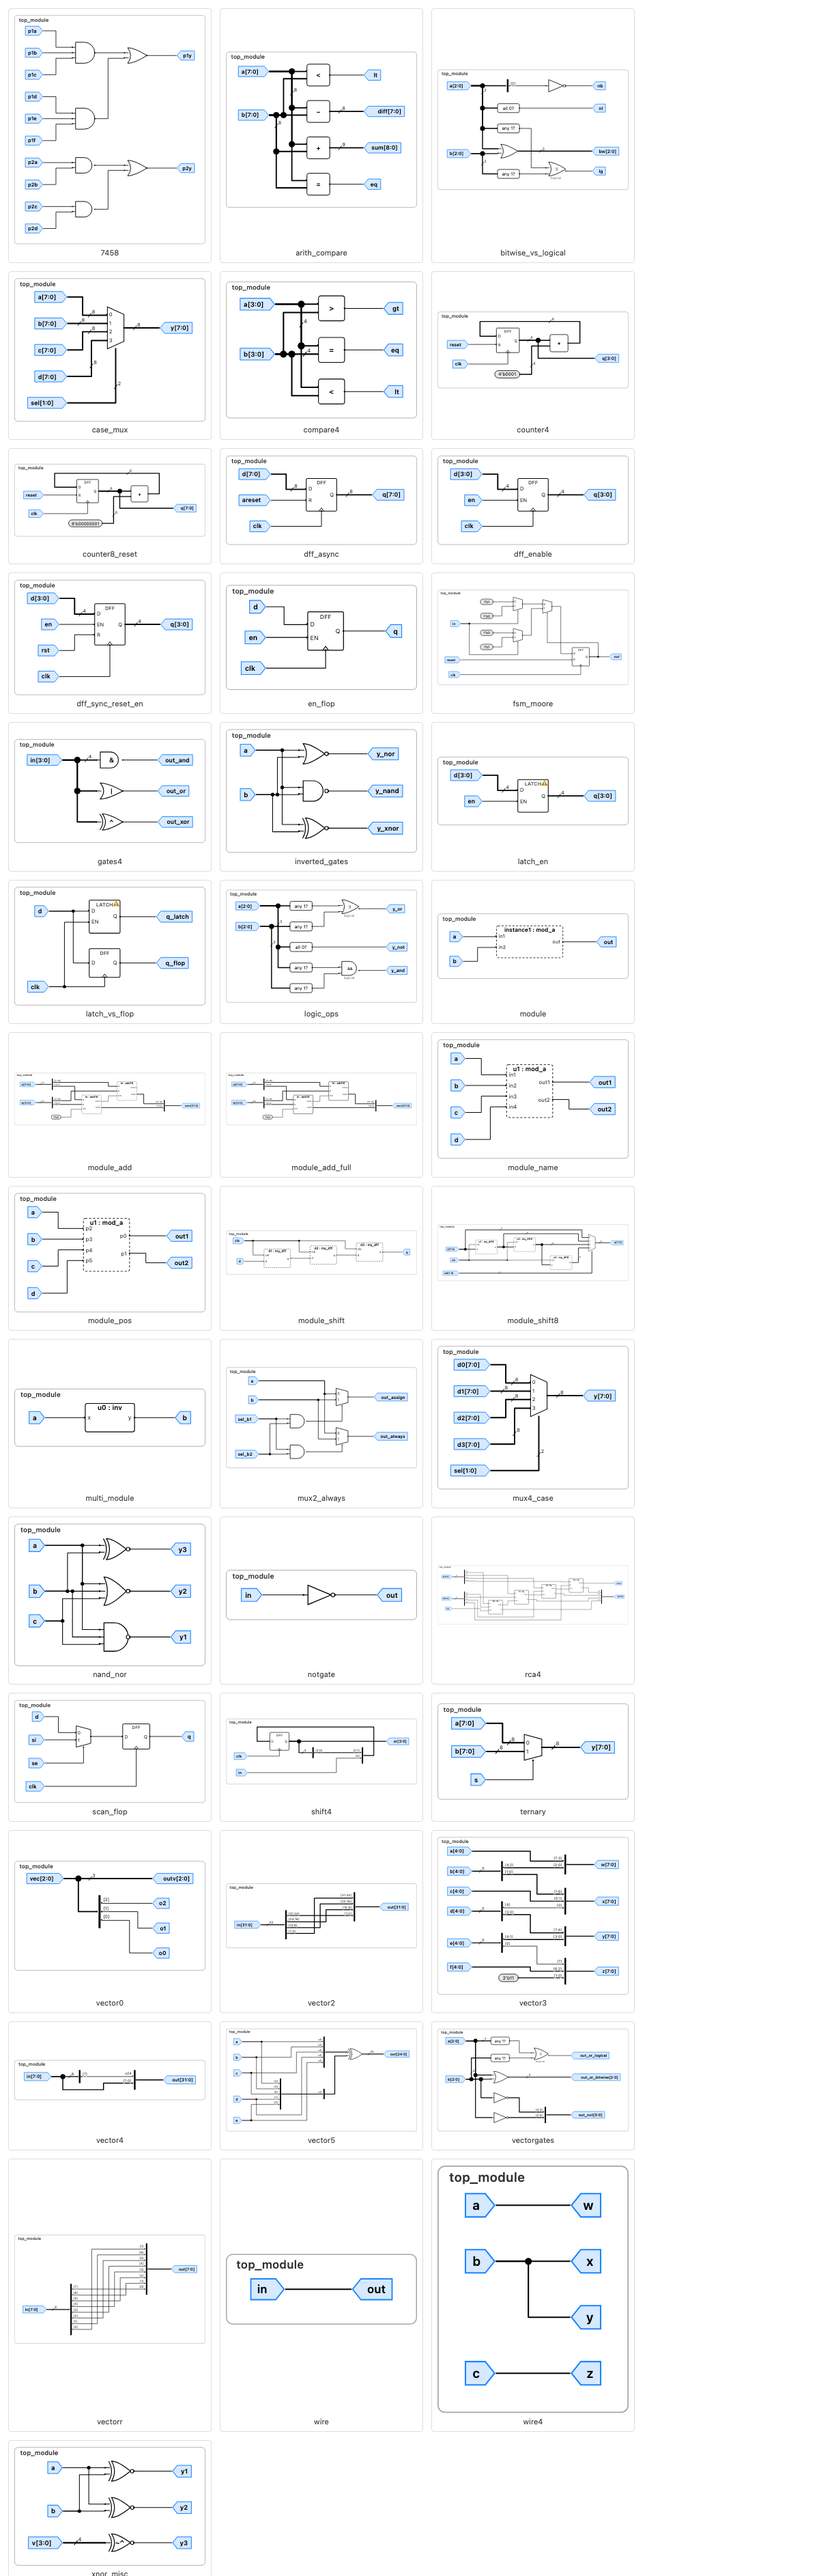
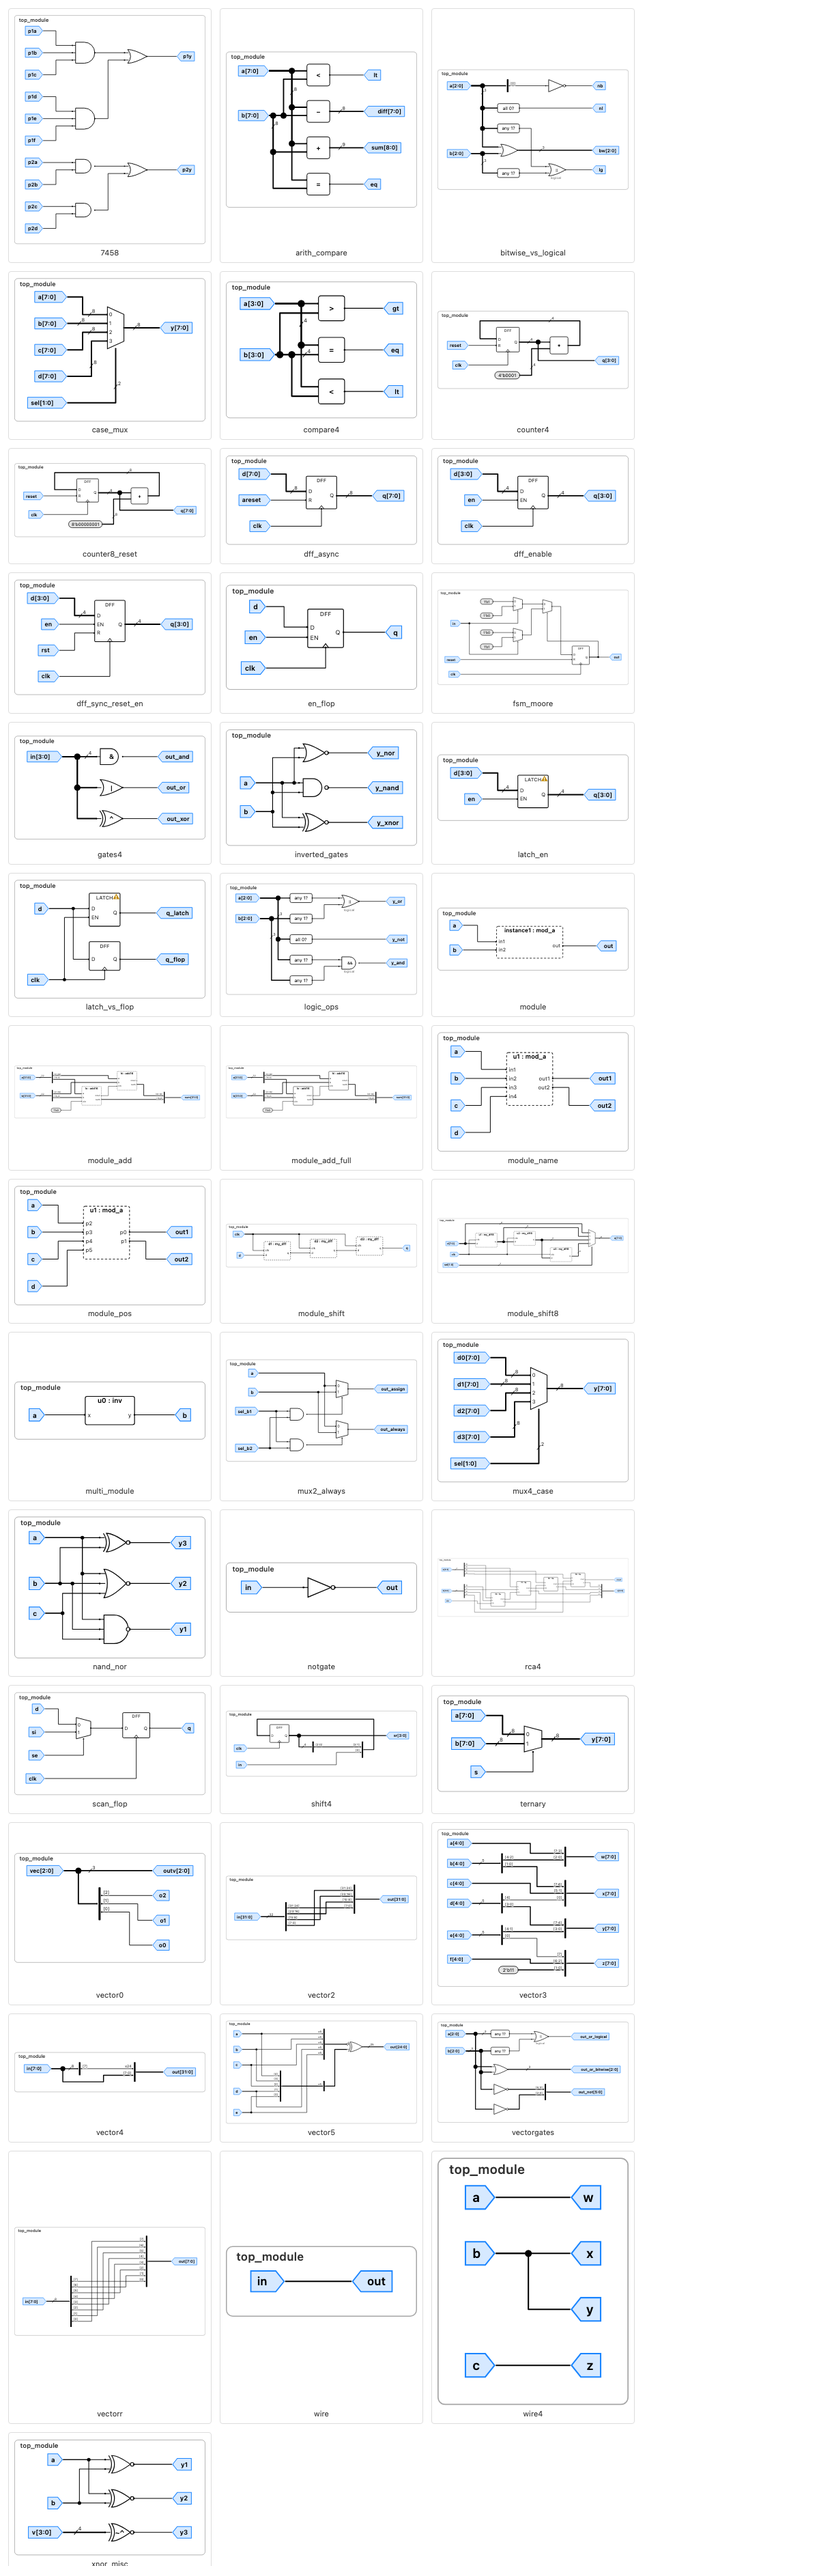
chore: version 0.3.1, changelog, readme and screenshots

diff --git a/README.md b/README.md
@@ -6,7 +6,7 @@ Screenshots are in `media/screenshots/` (vsce cannot embed images without a publ
 
 ## First run
 
-1. Run `code --install-extension rtl-live-0.3.0.vsix --force`, then Cmd+Shift+P, "Developer: Reload Window".
+1. Run `code --install-extension rtl-live-0.3.1.vsix --force`, then Cmd+Shift+P, "Developer: Reload Window".
 2. Optional, faster synthesis: `brew install yosys`. Without it the bundled wasm engine is used, and its first run takes a few seconds.
 3. Click the RTL Live icon in the Activity Bar to open the "Schematic" view. You can drag it to the secondary side bar.
 4. 10-minute manual check using `test/fixtures/hdlbits/`:
@@ -33,7 +33,7 @@ If `code` is not on your PATH, run "Shell Command: Install 'code' command in PAT
 - Every element explains itself on hover in one plain sentence and quotes the source line it came from: wires ("3 separate wires drawn as one line (a bus)"), junction dots ("Wires connect here"), plain crossings ("These wires cross but do not connect"), bubbles, pins, slashes, ripper labels, gates, muxes, flip-flops, latches, constants, instances and black boxes.
 - Legend button (key `l`): every symbol with its meaning, drawn with the diagram's own symbols.
 - Focus mode: hover a wire or a symbol to light its whole net and dim everything else; Escape clears.
-- Readable layout: wires of different nets stay at least 8 px apart, fan-out trunks get their own channels, junction dots are 2.5 times the wire width and only ever mark a T (never a crossing, never a 4-way), join and split labels sit above their own slice wires. The accuracy suite checks all of this on every fixture in all three views.
+- Readable layout: wires of different nets stay at least 8 px apart, fan-out trunks get their own channels, pins sit 16 px apart, junction dots are 2.5 times the wire width, at least 20 px from each other and 16 px from any plain crossing, and only ever mark a T (never a crossing, never a 4-way), join and split labels sit above their own slice wires. The accuracy suite checks all of this on every fixture in all three views.
 - Warnings on the wire: multiply driven bits (`y[3:2] has multiple drivers`; disjoint slice assigns are legal and draw as a join) and combinational loops carry a badge; the banner names the offending signal and bits.
 - Every fixture is checked for functional equivalence against its source with Icarus Verilog in both views (`docs/ACCURACY_REPORT.md`).
 - Hierarchy: instances of modules in the same file are boxes you can double-click to drill into, with a breadcrumb to go back. Modules that are not in the file (HDLBits' `mod_a`, `my_dff`, `add16`) are drawn as dashed black boxes with pin directions inferred from how they are connected.

diff --git a/CHANGELOG.md b/CHANGELOG.md
@@ -1,5 +1,12 @@
 # Changelog
 
+## 0.3.1
+
+Two layout fixes from docs/BUGS.md (items 19 and 20).
+
+- Fan-out hubs (bug 19): junction dots are at least 20 px apart and a plain crossing is at least 16 px from any junction dot. Node pins now sit at fixed positions one 16 px pitch apart (gate inputs included), the post-pass that splits 4-way junctions keeps its two dots 20 px apart, and a dot that crowds another dot or a crossing is slid along its trunk until it is clear. Both rules are L3 checks on every fixture in every view; the checker also now finds junction dots on bus wires, which it had missed before.
+- Legend (bug 20): samples draw at the diagram's own scale (one SVG unit per pixel), each sample box includes the ripper range labels that hang beside the bar, and the picture column is wide enough for every sample, so `[5:3]` and `[2:0]` are the diagram's size, nothing is clipped, and nothing overlaps the text column. A unit test measures every sample and a Playwright test measures the rendered panel in light and dark.
+
 ## 0.3.0
 
 Readability and clarity release for first-week Verilog learners. Every fixture passes the readability checks in all three views, including four new ones (wire spacing, label clearance, junction correctness, no 4-way junctions); see docs/ACCURACY_REPORT.md.
